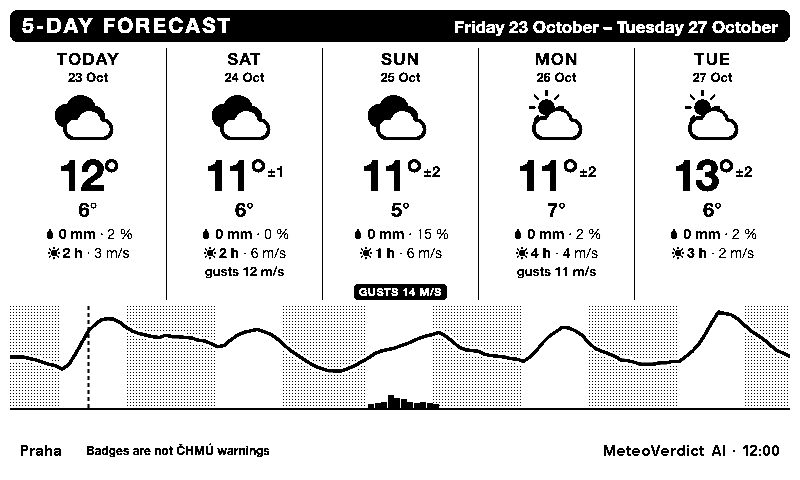
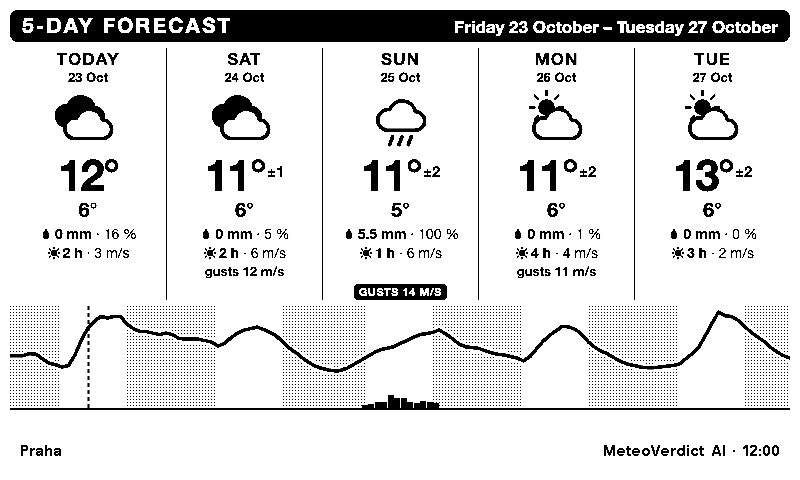
Two badges fit in a head (no date after them); the note on the badges is gone
The 24-hour head uses short dates with a badge. Screenshots regenerated.

diff --git a/docs/update-device.md b/docs/update-device.md
@@ -59,8 +59,8 @@ obce druhá adresa neexistuje (`…/CZ0423/.json`), proto pro samotný okres nec
 
 - V náhledu záložky Full nejsou texty `Liquid error`, `NaN`, `undefined`, `{{`.
 - **Patička** vpravo: `MeteoVerdict AI · HH:MM` (výchozí) nebo `MeteoVerdict · HH:MM`
-  (kombinovaná předpověď). Čas je aktuální český čas. Je-li na obrazovce odznak (*Mráz*,
-  *Déšť*, *Nárazy*), uprostřed patičky stojí „Odznaky nejsou výstrahy ČHMÚ“.
+  (kombinovaná předpověď). Čas je aktuální český čas. Odznaky (*Mráz*,
+  *Déšť*, *Nárazy*) jsou v hlavičce dne; jsou-li dva, datum za nimi vypadne, aby se vešly.
 - *Příštích 24 hodin*: hlavička s rozsahem dnů (`sobota 24. října → neděle 25. října`),
   šest údajů (srážky, slunce, oblačnost, vítr s nárazy, tlak, vlhkost) a graf s časovou
   osou. *48 hodin* je stejné, s popisky po 6 hodinách.
